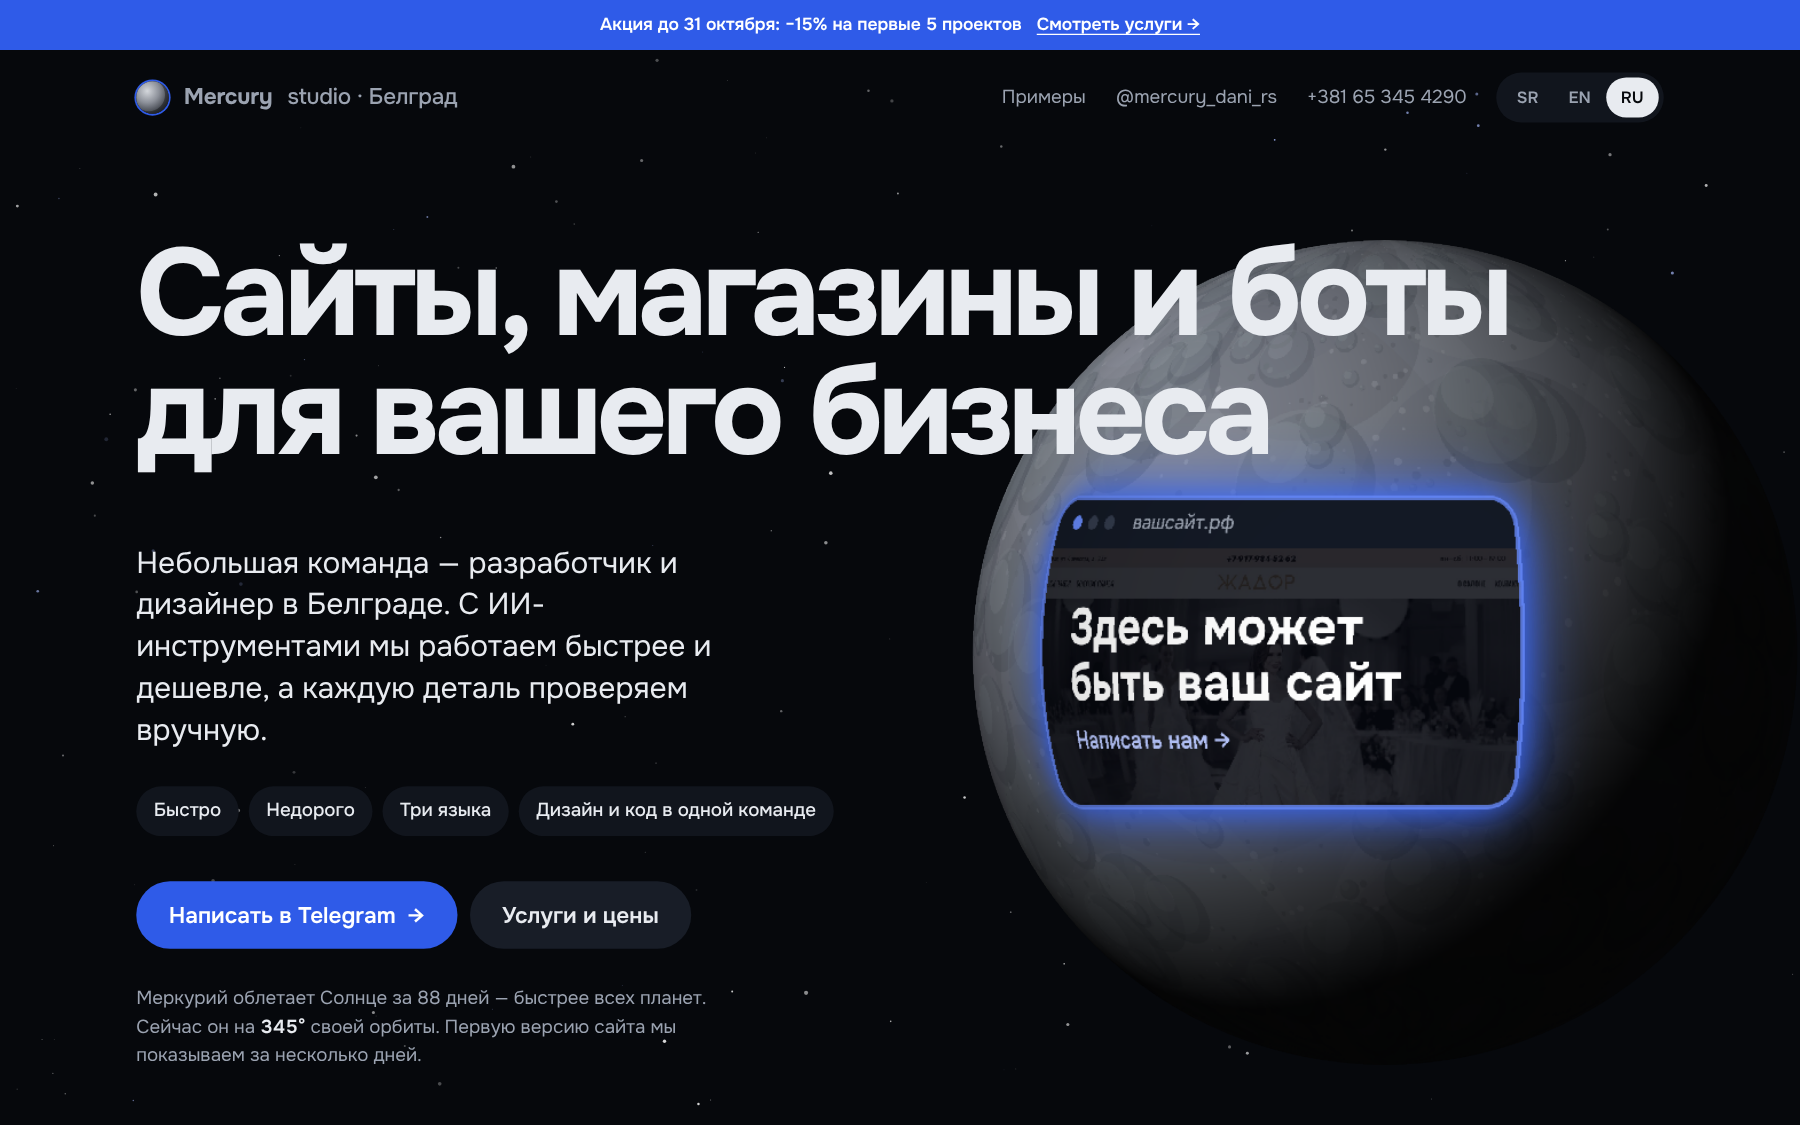
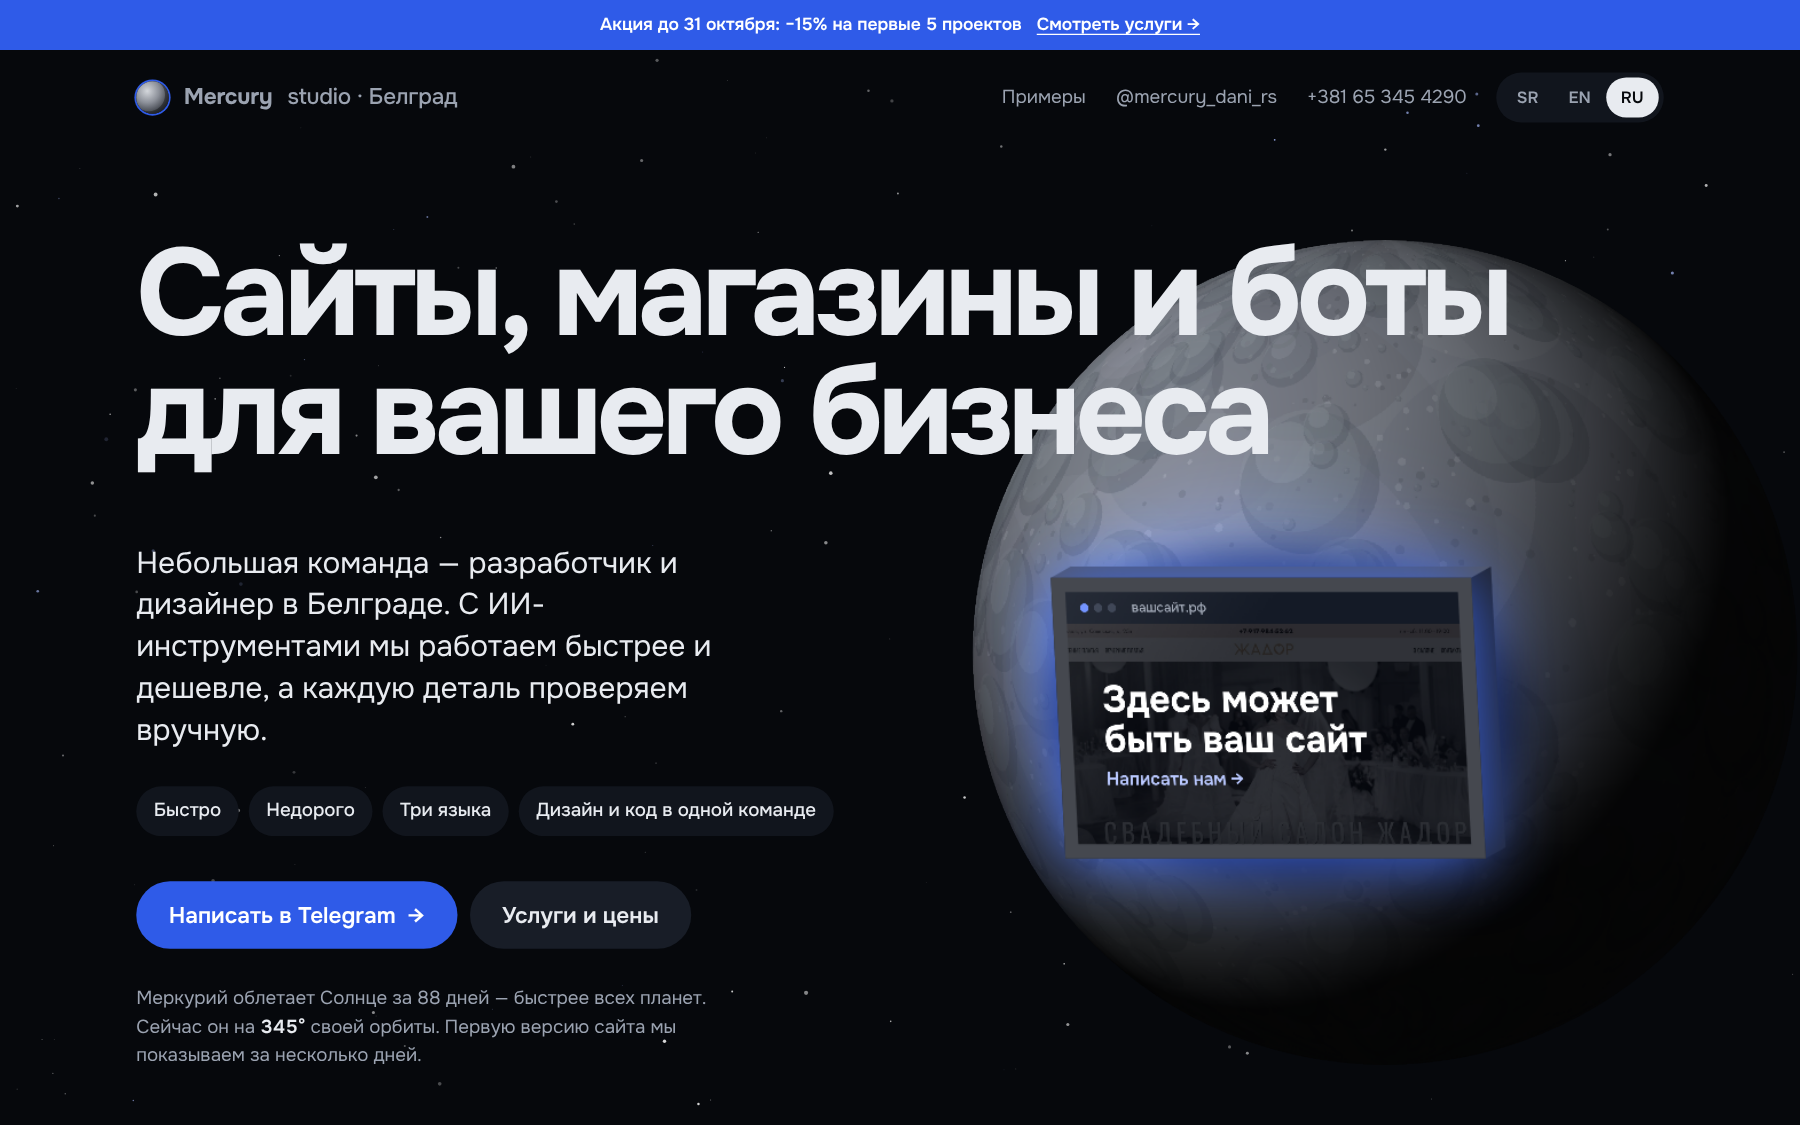
Mercury Studio: the screen becomes a flat billboard set into the planet
A flat panel with a frame and real thickness stands out of a dark
trench in the surface; its sides are lit like the planet and it turns
with the sphere, foreshortening as it goes. The screen glows blue onto
the ground around it.

Claude-Session: https://claude.ai/code/session_01UWZxjZDZsRNAHBMSR73c6z

Changed region(s): [[0.56, 0.4044, 0.8711, 0.8089]]

diff --git a/sites/mercury-studio/js/space.js b/sites/mercury-studio/js/space.js
@@ -58,51 +58,55 @@
       blot(x - rad * .06, y - rad * .06, rad * .88, "#777b83", .32);
       blot(x - rad * .3, y - rad * .3, rad * .45, "#9ea2aa", .16);
     }
+    /* where the billboard stands: a dark trench dug into the ground and blue light spilling round it */
+    var BLAT = -0.17, BU = TW / 2, BV = Math.round(TH * (0.5 - BLAT / Math.PI));
+    g.save(); g.filter = "blur(26px)"; g.fillStyle = "rgba(10,12,18,.85)";
+    g.beginPath(); g.ellipse(BU, BV, TW * 37 / 360, TH * 23 / 180, 0, 0, 6.2832); g.fill(); g.restore();
+    g.save(); g.filter = "blur(60px)"; g.globalCompositeOperation = "lighter"; g.fillStyle = "rgba(61,107,255,.22)";
+    g.beginPath(); g.ellipse(BU, BV, TW * 44 / 360, TH * 30 / 180, 0, 0, 6.2832); g.fill(); g.restore();
     var baseData = g.getImageData(0, 0, TW, TH).data;
 
-    /* the screen lives in the texture: lon -38..38 deg, lat -22..22 deg around the front */
-    var em = document.createElement("canvas"); em.width = TW; em.height = TH;
-    var e = em.getContext("2d"), emData = null;
-    var SX0 = Math.round(TW * (0.5 - 38 / 360)), SX1 = Math.round(TW * (0.5 + 38 / 360));
-    var SY0 = Math.round(TH * (0.5 - 22 / 180)), SY1 = Math.round(TH * (0.5 + 22 / 180));
+    /* the billboard's face: a flat screen, painted once per slide */
+    var SW = 1200, SH = 740, scr = document.createElement("canvas"); scr.width = SW; scr.height = SH;
+    var e = scr.getContext("2d");
     var sat = document.querySelector(".sat");
     var say = sat ? (sat.querySelector(".sat-say b") || {}).textContent : "";
     var sub = sat ? (sat.querySelector(".sat-say span") || {}).textContent : "";
     var urlT = (document.getElementById("sat-url") || {}).textContent || "";
     var pics = sat ? Array.prototype.slice.call(sat.querySelectorAll(".sat-screen img")) : [], pic = 0;
-    function rr(c, x, y, w, h, rd) { c.beginPath(); c.moveTo(x + rd, y); c.arcTo(x + w, y, x + w, y + h, rd); c.arcTo(x + w, y + h, x, y + h, rd); c.arcTo(x, y + h, x, y, rd); c.arcTo(x, y, x + w, y, rd); c.closePath(); }
     function wrap(c, text, maxW) {
       var words = text.split(" "), lines = [], line = "";
       words.forEach(function (w) { var t = line ? line + " " + w : w; if (c.measureText(t).width > maxW && line) { lines.push(line); line = w; } else line = t; });
       if (line) lines.push(line); return lines;
     }
     function paintScreen() {
-      var W = SX1 - SX0, H = SY1 - SY0, pad = 56;
-      e.clearRect(0, 0, TW, TH);
-      e.save();
-      e.shadowColor = "rgba(61,107,255,.95)"; e.shadowBlur = 90;          // glow spilling onto the ground
-      rr(e, SX0, SY0, W, H, 34); e.fillStyle = "#0a0d13"; e.fill();
-      e.shadowBlur = 40; e.fill();
-      e.restore();
-      e.save(); rr(e, SX0, SY0, W, H, 34); e.clip();
+      var bar = 92, pad = 96;
+      e.fillStyle = "#0a0d13"; e.fillRect(0, 0, SW, SH);
       var img = pics[pic];
       if (img && img.complete && img.naturalWidth) {
-        var ih = W * img.naturalHeight / img.naturalWidth;
-        e.globalAlpha = .38; e.drawImage(img, SX0, SY0 + 64, W, Math.max(ih, H)); e.globalAlpha = 1;
+        var ih = SW * img.naturalHeight / img.naturalWidth;
+        e.globalAlpha = .4; e.drawImage(img, 0, bar, SW, Math.max(ih, SH - bar)); e.globalAlpha = 1;
       }
-      e.fillStyle = "rgba(6,9,16,.6)"; e.fillRect(SX0, SY0, W, H);
-      e.fillStyle = "#141a26"; e.fillRect(SX0, SY0, W, 64);
-      ["#6a8dff", "#343c4d", "#343c4d"].forEach(function (c, i) { e.fillStyle = c; e.beginPath(); e.arc(SX0 + 40 + i * 30, SY0 + 32, 9, 0, 6.2832); e.fill(); });
-      e.fillStyle = "#9ba3b1"; e.font = "500 26px Onest, sans-serif"; e.textBaseline = "middle"; e.fillText(urlT, SX0 + 140, SY0 + 33);
-      e.fillStyle = "#ffffff"; e.font = "700 62px Onest, sans-serif"; e.textBaseline = "alphabetic";
-      var lines = wrap(e, say, W - pad * 2), lh = 66, ty = SY0 + 64 + (H - 64) / 2 - ((lines.length - 1) * lh + 60) / 2 + 22;
-      lines.forEach(function (l, i) { e.fillText(l, SX0 + pad, ty + i * lh); });
-      e.fillStyle = "#b9c8ff"; e.font = "600 30px Onest, sans-serif"; e.fillText(sub, SX0 + pad, ty + (lines.length - 1) * lh + 58);
-      e.restore();
-      e.save(); rr(e, SX0, SY0, W, H, 34); e.lineWidth = 6; e.strokeStyle = "rgba(106,141,255,.8)"; e.stroke(); e.restore();
-      emData = e.getImageData(0, 0, TW, TH).data;
+      e.fillStyle = "rgba(6,9,16,.58)"; e.fillRect(0, bar, SW, SH - bar);
+      e.fillStyle = "#141a26"; e.fillRect(0, 0, SW, bar);
+      ["#6a8dff", "#343c4d", "#343c4d"].forEach(function (c, i) { e.fillStyle = c; e.beginPath(); e.arc(56 + i * 42, bar / 2, 13, 0, 6.2832); e.fill(); });
+      e.fillStyle = "#9ba3b1"; e.font = "500 40px Onest, sans-serif"; e.textBaseline = "middle"; e.fillText(urlT, 200, bar / 2 + 2);
+      e.textBaseline = "alphabetic"; e.fillStyle = "#fff"; e.font = "700 112px Onest, sans-serif";
+      var lines = wrap(e, say, SW - pad * 2), lh = 118, block = (lines.length - 1) * lh + 112 + 90;
+      var ty = bar + (SH - bar - block) / 2 + 96;
+      lines.forEach(function (l, i) { e.fillText(l, pad, ty + i * lh); });
+      e.fillStyle = "#b9c8ff"; e.font = "600 54px Onest, sans-serif"; e.fillText(sub, pad, ty + (lines.length - 1) * lh + 96);
+      var sh = e.createLinearGradient(0, 0, SW * .7, SH); sh.addColorStop(0, "rgba(255,255,255,.08)"); sh.addColorStop(.45, "rgba(255,255,255,0)"); // glass glare
+      e.fillStyle = sh; e.fillRect(0, 0, SW, SH);
     }
 
+    /* billboard geometry in sphere units: a flat panel standing out of the surface, with a frame and depth */
+    function bill(off) {
+      var ph = -off, th = BLAT, cp = Math.cos(ph), sp = Math.sin(ph), ct = Math.cos(th), st = Math.sin(th);
+      var n = [ct * sp, -st, ct * cp], east = [cp, 0, -sp], down = [st * sp, ct, st * cp];
+      function pt(dn, ex, dy) { return [n[0] * dn + east[0] * ex + down[0] * dy, n[1] * dn + east[1] * ex + down[1] * dy, n[2] * dn + east[2] * ex + down[2] * dy]; }
+      return { n: n, east: east, down: down, pt: pt };
+    }
     /* per-pixel sphere: orthographic view, lit from the upper left */
     var N = 0, px, out, ctx2 = cv.getContext("2d"), idx, lonA, rowA, shadeA, limbA;
     function setup() {
@@ -126,17 +130,41 @@
         var u = (lonA[q] + off) / twoPi + 0.5; u -= Math.floor(u);
         var t = (rowA[q] * TW + ((u * TW) | 0)) * 4, s = shadeA[q];
         var rr_ = baseData[t] * s, gg = baseData[t + 1] * s, bb = baseData[t + 2] * s;
-        if (emData) {
-          var a = emData[t + 3] / 255;
-          if (a > 0) { var k2 = limbA[q]; rr_ = rr_ * (1 - a) + emData[t] * k2 * a; gg = gg * (1 - a) + emData[t + 1] * k2 * a; bb = bb * (1 - a) + emData[t + 2] * k2 * a; }
-        }
         px[idx[q]] = 0xff000000 | (Math.min(255, bb) << 16) | (Math.min(255, gg) << 8) | Math.min(255, rr_);
       }
       ctx2.putImageData(out, 0, 0);
+      drawBill(off);
+    }
+    function drawBill(off) {
+      var B = bill(off), R = N / 2, F = 0.94, D = 0.16, A = 0.5, H = 0.31, FR = 0.035;
+      function P(v) { return [R + v[0] * R, R + v[1] * R]; }
+      var c = ctx2;
+      function quad(p, fill) { c.beginPath(); c.moveTo(p[0][0], p[0][1]); for (var i = 1; i < p.length; i++) c.lineTo(p[i][0], p[i][1]); c.closePath(); c.fillStyle = fill; c.fill(); }
+      var fA = A + FR, fH = H + FR;
+      var f = [B.pt(F, -fA, -fH), B.pt(F, fA, -fH), B.pt(F, fA, fH), B.pt(F, -fA, fH)];
+      var k = [B.pt(F - D, -fA, -fH), B.pt(F - D, fA, -fH), B.pt(F - D, fA, fH), B.pt(F - D, -fA, fH)];
+      var Lx = -0.55, Ly = -0.5, Lz = 0.67;
+      function lit(nv, base) { var d = Math.max(0, nv[0] * Lx + nv[1] * Ly + nv[2] * Lz), v = Math.round(base * (0.35 + 0.9 * d)); return "rgb(" + v + "," + (v + 3) + "," + (v + 10) + ")"; }
+      var sides = [ [[0, 1], [-B.down[0], -B.down[1], -B.down[2]]], [[1, 2], B.east], [[2, 3], B.down], [[3, 0], [-B.east[0], -B.east[1], -B.east[2]]] ];
+      c.save();
+      sides.forEach(function (sd) {                         // the thickness of the panel
+        var nv = sd[1]; if (nv[2] <= 0.002) return;
+        var i = sd[0][0], j = sd[0][1];
+        quad([P(f[i]), P(f[j]), P(k[j]), P(k[i])], lit(nv, 92));
+      });
+      c.shadowColor = "rgba(61,107,255,.9)"; c.shadowBlur = R * .16;   // the screen's light
+      quad(f.map(P), "#1c212c");
+      c.shadowBlur = 0;
+      quad(f.map(P), lit(B.n, 70));                         // the frame face
+      var s0 = P(B.pt(F + .001, -A, -H)), s1 = P(B.pt(F + .001, A, -H)), s3 = P(B.pt(F + .001, -A, H));
+      c.setTransform((s1[0] - s0[0]) / SW, (s1[1] - s0[1]) / SW, (s3[0] - s0[0]) / SH, (s3[1] - s0[1]) / SH, s0[0], s0[1]);
+      c.drawImage(scr, 0, 0);
+      c.setTransform(1, 0, 0, 1, 0, 0);
+      c.restore();
     }
     setup();
     var ready = document.fonts && document.fonts.ready ? document.fonts.ready : Promise.resolve();
-    ready.then(function () { paintScreen(); render(swing(performance.now())); });
+    paintScreen(); ready.then(function () { paintScreen(); render(swing(performance.now())); });
     pics.forEach(function (im) { im.loading = "eager"; if (!im.complete) im.addEventListener("load", function () { if (im === pics[pic]) paintScreen(); }); });
     function swing(now) { return reduce ? 0 : 0.42 * Math.sin(now / 1000 * 0.22); }  // the planet turns side to side, about 24 degrees
     render(0);

diff --git a/sites/mercury-studio/css/style.css b/sites/mercury-studio/css/style.css
@@ -250,6 +250,6 @@ html:not(.js) .reveal { opacity: 1; transform: none; }
 @media (prefers-reduced-motion: reduce) { .js .intro h1, .js .intro .lede > *, .js .planet-wrap { animation: none; } }
 
 /* the screen is painted into the planet by space.js; this link is the clickable spot over it */
-.sat { position: absolute; left: 22%; top: 30%; width: 56%; height: 40%; z-index: 2; border-radius: 18px; }
+.sat { position: absolute; left: 24%; top: 38%; width: 54%; height: 36%; z-index: 2; border-radius: 18px; }
 .sat > span { position: absolute; width: 1px; height: 1px; overflow: hidden; clip-path: inset(50%); white-space: nowrap; }
 .sat:focus-visible { outline: 2px solid var(--blue-hi); outline-offset: 6px; }
